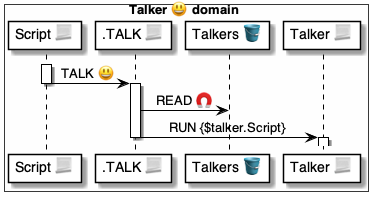
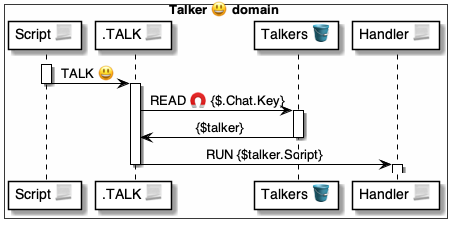
.

diff --git a/4 ⚙ Solution/37 Scripts 📃/📃 Commands ⌘/⌘ for control ▶/LOCATE 🔆/🔆 LOCATE 📃 script.md b/4 ⚙ Solution/37 Scripts 📃/📃 Commands ⌘/⌘ for control ▶/LOCATE 🔆/🔆 LOCATE 📃 script.md
@@ -1,0 +1,44 @@
+# 😃 .LOCATE 📃 script
+
+> Purpose
+* [Script 📃](<../../../../35 💬 Chats/Scripts 📃/Script 📃.md>) that implements the [`LOCATE`](<🔆 LOCATE ⌘ cmd.md>) command.
+
+
+## Diagram
+
+![alt text](<🔆 LOCATE ⚙ uml.png>)
+
+## Script
+
+```yaml
+📃 .LOCATE:
+
+# Assert the inputs
+- ASSERT|.Inputs:
+    AllOf: Key, Script
+    Texts: Key, Script
+
+# Save the talker
+- SAVE|Talker.Talkers:
+    Domain: $.Hosted.Domain
+    Key: $Key
+    Script: $Script
+```
+
+Uses||
+|-|-
+| [Commands ⌘](<../../../../35 💬 Chats/Scripts 📃/Command ⌘.md>) | [`ASSERT`](<../../⌘ for holders 🧠/ASSERT 🚦/🚦 ASSERT ⌘ cmd.md>) [`SAVE`](<../../⌘ for datasets 🪣/SAVE 💾/💾 SAVE ⌘ cmd.md>)
+| [Datasets 🪣](<../../../../30 🧩 Data/Datasets 🪣/🪣 Dataset.md>) | [`Talker.Talkers` 🪣 table](<../../../../35 💬 Chats/Talkers 😃/😃🪣 Talker tables/😃 Talker.Talkers 🪣 table.md>)
+| [Holders 🧠](<../../../../35 💬 Chats/Scripts 📃/Holder 🧠.md>) |  [`$.Hosted`](<../../../📃 Holders 🧠/🧠 System holders/$.Hosted 📦/📦 $.Hosted 🧠 holder.md>)
+|
+
+## FAQ
+
+1. **Isn't there a security issue with multiple domains on the same table?**
+
+    No. 
+    * [Domains 👥](<../../../../40 👥 Domains/👥 Domain/👥 Domain.md>) cannot access this table.
+    * It's abstracted by [Talker 😃 helper domains](<../../../../35 💬 Chats/Talkers 😃/😃🤲 Talker helper.md>). 
+
+    ---
+    <br/>

diff --git a/4 ⚙ Solution/37 Scripts 📃/📃 Commands ⌘/⌘ for control ▶/TALK 😃/😃 TALK 📃 script.md b/4 ⚙ Solution/37 Scripts 📃/📃 Commands ⌘/⌘ for control ▶/TALK 😃/😃 TALK 📃 script.md
@@ -1,4 +1,4 @@
-# 😃 TALK 📃 script
+# 😃 .TALK 📃 script
 
 > Purpose
 * [Script 📃](<../../../../35 💬 Chats/Scripts 📃/Script 📃.md>) that implements the [`TALK`](<😃 TALK ⌘ cmd.md>) command.
@@ -9,17 +9,23 @@
 
 ![alt text](<😃 TALK ⚙ uml.png>)
 
+## How to call
+
+```yaml
+- RUN|.TALK
+```
+
 ## Script
 
 ```yaml
 📃 .TALK:
 
-# Get the handler
+# Get the talker
 - READ >> $talker:
-    Set: Talker.Handlers
+    Set: Talker.Talkers
     Key: 
         Domain: $.Hosted.Domain
-        Schema: $.Chat.Schema
+        Key: $.Chat.Key
 
 # Run the script
 - RUN:
@@ -29,6 +35,7 @@
 Uses||
 |-|-
 | [Commands ⌘](<../../../../35 💬 Chats/Scripts 📃/Command ⌘.md>) | [`READ`](<../../⌘ for datasets 🪣/READ 🧲/🧲 READ ⌘ cmd.md>) [`RUN`](<../RUN 🏃/🏃 RUN ⌘ cmd.md>)
+| [Datasets 🪣](<../../../../30 🧩 Data/Datasets 🪣/🪣 Dataset.md>) | [`Talker.Talkers` 🪣 table](<../../../../35 💬 Chats/Talkers 😃/😃🪣 Talker tables/😃 Talker.Talkers 🪣 table.md>)
 | [Holders 🧠](<../../../../35 💬 Chats/Scripts 📃/Holder 🧠.md>) | [`$.Chat`](<../../../📃 Holders 🧠/🧠 System holders/$.Chat 💬/💬 $.Chat 🧠 holder.md>) [`$.Hosted`](<../../../📃 Holders 🧠/🧠 System holders/$.Hosted 📦/📦 $.Hosted 🧠 holder.md>)
 |
 

diff --git a/4 ⚙ Solution/37 Scripts 📃/📃 Commands ⌘/⌘ for control ▶/TALK 😃/😃 TALK ⌘ cmd.md b/4 ⚙ Solution/37 Scripts 📃/📃 Commands ⌘/⌘ for control ▶/TALK 😃/😃 TALK ⌘ cmd.md
@@ -1,3 +1,29 @@
-<!-- TODO: -->
+# 😃 Talker `TALK` command
 
 > Part of [Script 📃](<../../../../35 💬 Chats/Scripts 📃/Script 📃.md>)
+
+> Works with the [`LOCATE`](<../LOCATE 🔆/🔆 LOCATE ⌘ cmd.md>) and [`CHAT`](<../../⌘ for holders 🧠/CHAT 💬/💬 CHAT ⌘ cmd.md>) commands
+
+> Implemented by the [`TALK` 📃 script](<😃 TALK 📃 script.md>)
+
+## FAQ
+
+1. **What is the TALK command?**
+
+    `TALK` 🔆
+    * is a [Command ⌘](<../../../../35 💬 Chats/Scripts 📃/Command ⌘.md>) 
+    * that runs a [Script 📃](<../../../../35 💬 Chats/Scripts 📃/Script 📃.md>) registered on the [`Talker.Talkers` 🪣 table](<../../../../35 💬 Chats/Talkers 😃/😃🪣 Talker tables/😃 Talker.Talkers 🪣 table.md>)
+    * to handle the [Locator 🔆](<../../../../25 🔆 Locators/Locators 🔆/🔆 Locator.md>) key in the [`$.Chat` 🧠 holder](<../../../📃 Holders 🧠/🧠 System holders/$.Chat 💬/💬 $.Chat 🧠 holder.md>)
+    * after the invocation of the [`CHAT`](<../../⌘ for holders 🧠/CHAT 💬/💬 CHAT ⌘ cmd.md>) command.
+
+    ---
+    <br/>
+
+1. **What's the TALK syntax?**
+
+    ```yaml
+    TALK
+    ```
+
+    ---
+    <br/>

diff --git a/4 ⚙ Solution/35 💬 Chats/Talkers 😃/😃🪣 Talker tables/😃 Talker.Talkers 🪣 table.md b/4 ⚙ Solution/35 💬 Chats/Talkers 😃/😃🪣 Talker tables/😃 Talker.Talkers 🪣 table.md
@@ -9,7 +9,8 @@
 > Data access
 
 * [`SAVE`](<../../../37 Scripts 📃/📃 Commands ⌘/⌘ for datasets 🪣/SAVE 💾/💾 SAVE ⌘ cmd.md>) by a [Hoster ☁ helper domain](<../../../45 🤲 Helper domains/Hosters ☁/☁🤲 Hoster helper.md>)
-* [`READ`](<../../../37 Scripts 📃/📃 Commands ⌘/⌘ for datasets 🪣/READ 🧲/🧲 READ ⌘ cmd.md>) by the [`TALK`](<../../../37 Scripts 📃/📃 Commands ⌘/⌘ for control ▶/TALK 😃/😃 TALK ⌘ cmd.md>) command
+* [`SAVE`](<../../../37 Scripts 📃/📃 Commands ⌘/⌘ for datasets 🪣/SAVE 💾/💾 SAVE ⌘ cmd.md>) by the [`LOCATE`](<../../../37 Scripts 📃/📃 Commands ⌘/⌘ for control ▶/LOCATE 🔆/🔆 LOCATE ⌘ cmd.md>) command
+* [`READ`](<../../../37 Scripts 📃/📃 Commands ⌘/⌘ for datasets 🪣/READ 🧲/🧲 READ ⌘ cmd.md>) by the [`TALK` command](<../../../37 Scripts 📃/📃 Commands ⌘/⌘ for control ▶/TALK 😃/😃 TALK ⌘ cmd.md>)
 
 ## Schema
 
@@ -18,7 +19,7 @@ Here's the [Itemized 🪣 dataset](<../../../30 🧩 Data/Datasets 🪣/🪣🔣
 ```yaml
 Prefix: Talker
 Name: Talkers
-Key: Domain, Schema
+Key: Domain, Key
 ```
 
 ## Example

diff --git a/4 ⚙ Solution/37 Scripts 📃/📃 Commands ⌘/⌘ for control ▶/LOCATE 🔆/🔆 LOCATE ⌘ cmd.md b/4 ⚙ Solution/37 Scripts 📃/📃 Commands ⌘/⌘ for control ▶/LOCATE 🔆/🔆 LOCATE ⌘ cmd.md
@@ -1,0 +1,35 @@
+# 😃🔆 Talker `LOCATE` command
+
+> Part of [Script 📃](<../../../../35 💬 Chats/Scripts 📃/Script 📃.md>)
+
+> Works with the [`TALK` command](<../TALK 😃/😃 TALK ⌘ cmd.md>)
+
+> Implemented by the [`LOCATE` 📃 script](<🔆 LOCATE 📃 script.md>)
+ 
+## FAQ
+
+1. **What is the LOCATE command?**
+
+    `LOCATE` 🔆
+    * is a [Command ⌘](<../../../../35 💬 Chats/Scripts 📃/Command ⌘.md>) 
+    * that registers a [Script 📃](<../../../../35 💬 Chats/Scripts 📃/Script 📃.md>)
+    * to handle a [Locator 🔆](<../../../../25 🔆 Locators/Locators 🔆/🔆 Locator.md>).
+
+    ---
+    <br/>
+
+1. **What's the LOCATE syntax?**
+
+    ```yaml
+    LOCATE:
+        Key: <key>
+        Script: <script>
+    ```
+
+    Input | Purpose
+    |-|-
+    |`Key`| [Locator 🔆](<../../../../25 🔆 Locators/Locators 🔆/🔆 Locator.md>) Key
+    |`Script`| [Script 📃](<../../../../35 💬 Chats/Scripts 📃/Script 📃.md>) to handle it
+
+    ---
+    <br/>

diff --git a/4 ⚙ Solution/37 Scripts 📃/📃 Commands ⌘/⌘ for control ▶/LOG 🪵/🪵 LOG ⌘ cmd.md b/4 ⚙ Solution/37 Scripts 📃/📃 Commands ⌘/⌘ for control ▶/LOG 🪵/🪵 LOG ⌘ cmd.md
@@ -2,7 +2,7 @@
 
 > Part of [Script 📃](<../../../../35 💬 Chats/Scripts 📃/Script 📃.md>)
 
-<br/>
+## FAQ
 
 1. **What is a LOG command?**
 
@@ -10,7 +10,6 @@
     * is a [Command ⌘](<../../../../35 💬 Chats/Scripts 📃/Command ⌘.md>) 
     * that sends an event 
     * to the log handler of a [Talker 😃](<../../../../35 💬 Chats/Talkers 😃/😃🤲 Talker helper.md>).
-
 
     ---
     <br/>

diff --git a/4 ⚙ Solution/41 🎭 Domain Roles/Hosts 🤗/🤗🅰 Host methods/Hello 🤵🐌🤗/🤗 Hello 📃 handler.md b/4 ⚙ Solution/41 🎭 Domain Roles/Hosts 🤗/🤗🅰 Host methods/Hello 🤵🐌🤗/🤗 Hello 📃 handler.md
@@ -25,15 +25,13 @@
     - AllOf: Chat
     - UUIDs: Chat
 
-# Save the data
+# Set the chat
 - CHAT:
     Broker: $.Msg.From
     Chat: $.Msg.Chat
 
 # Start a Chat for the locator
-- TALK:
-    Schema: $.Chat.Schema 
-    Key: $.Chat.Key
+- TALK
 ```
 
 

diff --git a/4 ⚙ Solution/20 🧑🦰 UI/Brokers 🤵/🤵🅰 Broker methods/Wallets 🧑🦰 Pop 🧑🦰🐌🤵/🤵 PopBind 📃 handler.md b/4 ⚙ Solution/20 🧑🦰 UI/Brokers 🤵/🤵🅰 Broker methods/Wallets 🧑🦰 Pop 🧑🦰🐌🤵/🤵 PopBind 📃 handler.md
@@ -6,7 +6,7 @@
 
 ## Diagram
 
-![alt text](<🤵 PopBind ⚙ uml.png>)
+![alt text](<🤵 Pop ⚙ uml.png>)
 
 ## Script
 
